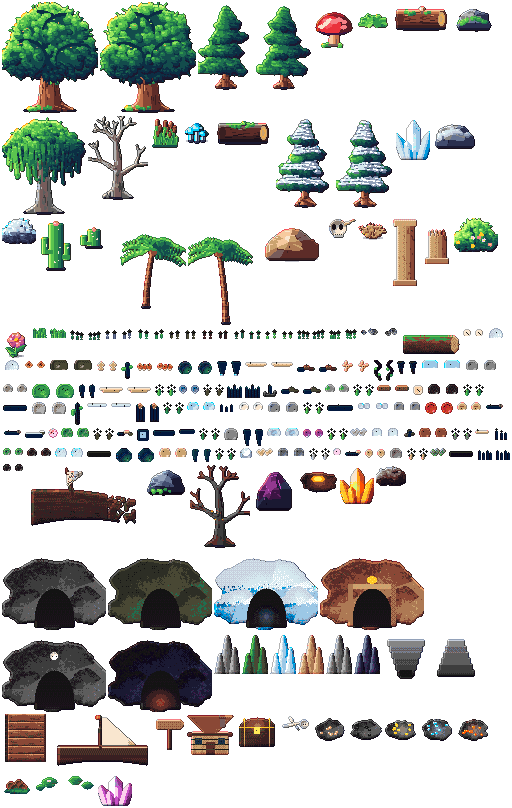
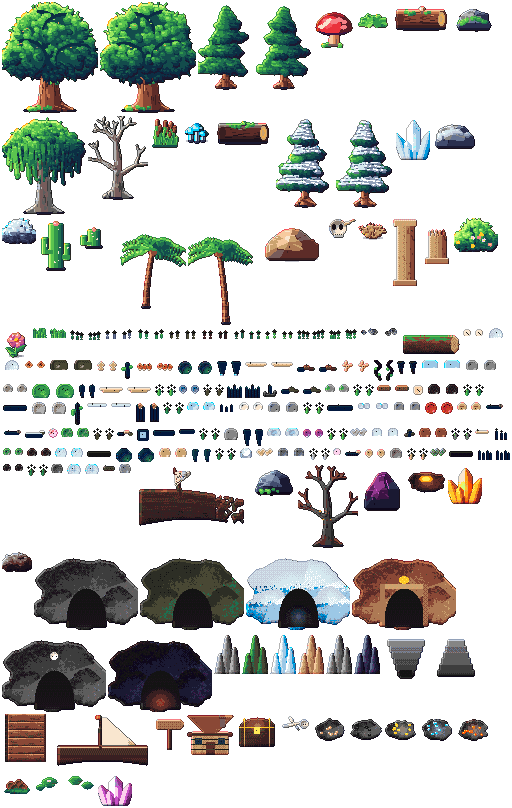
Ciclos 241-250/1000: 5 props + testes torres/biomas + evento fantasma + dica

Changed region(s): [[0.0, 0.5569, 0.9375, 0.8045]]

diff --git a/src/game/RegionWorld.js b/src/game/RegionWorld.js
@@ -33,12 +33,12 @@ const INTERACT_RANGE = 70;
 
 // Objetos por terreno: [frame, peso, sólido?]. Sólido = base que bloqueia (largura, altura).
 const PROPS = {
-  [T.FOREST]: { density: 0.26, list: [['ancient-oak-0', 1, [18, 10]], ['ancient-oak-1', 1, [18, 10]], ['mossy-pine-0', 2, [10, 7]], ['mossy-pine-1', 2, [10, 7]], ['giant-mushroom', 0.6, [10, 6]], ['fern', 3], ['fallen-log', 0.6, [40, 10]], ['mossy-rock', 1, [24, 10]], ['grass-tuft-0', 4], ['grass-tuft-1', 4], ['flower-tuft-0', 1.2], ['flower-tuft-1', 1.2], ['forest-flower-0', 0.8], ['forest-flower-1', 0.8], ['pebbles-0', 0.7], ['pebbles-1', 0.7], ['mushroom-cluster-0', 0.5], ['mushroom-cluster-1', 0.5], ['berry-bush-0', 0.6], ['berry-bush-1', 0.6], ['yellow-flower-0', 0.7], ['yellow-flower-1', 0.7], ['bark-scrap-0', 0.5], ['bark-scrap-1', 0.5], ['pink-flower-0', 0.6], ['pink-flower-1', 0.6], ['rotten-log', 0.4, [30, 9]], ['red-cap-0', 0.4], ['red-cap-1', 0.4], ['tan-shroom-0', 0.4], ['tan-shroom-1', 0.4], ['forest-boulder', 0.3, [14, 8]]] },
-  [T.SWAMP]: { density: 0.17, list: [['willow', 1.4, [14, 9]], ['dead-tree', 1.4, [10, 7]], ['reeds', 3], ['swamp-shroom', 1.2], ['bog-log', 0.5, [40, 10]], ['mossy-rock', 0.5, [24, 10]], ['grass-tuft-0', 3], ['flower-tuft-1', 0.6], ['swamp-flower-0', 0.6], ['swamp-flower-1', 0.6], ['mud-puddle-0', 0.5], ['mud-puddle-1', 0.5], ['twisted-root-0', 0.5], ['twisted-root-1', 0.5], ['river-stone-0', 0.5, [10, 6]], ['river-stone-1', 0.5, [10, 6]], ['blue-mushroom-0', 0.5], ['blue-mushroom-1', 0.5], ['moss-pebble-0', 0.6], ['moss-pebble-1', 0.6], ['reed-0', 0.7], ['reed-1', 0.7], ['green-stone-0', 0.5, [10, 6]], ['green-stone-1', 0.5, [10, 6]], ['lilac-flower-0', 0.5], ['lilac-flower-1', 0.5], ['swamp-root', 0.5], ['swamp-pebble-0', 0.5], ['swamp-pebble-1', 0.5], ['yellow-swamp-flower-0', 0.5], ['yellow-swamp-flower-1', 0.5], ['swamp-gravel', 0.6]] },,
-  [T.SNOW]: { density: 0.15, list: [['snow-pine-0', 2, [10, 7]], ['snow-pine-1', 2, [10, 7]], ['ice-crystal', 1, [16, 8]], ['snow-rock', 1.4, [28, 10]], ['frozen-bush', 1.4], ['grass-tuft-1', 1.5], ['snow-flower-0', 0.8], ['snow-flower-1', 0.8], ['pebbles-0', 0.5], ['pebbles-1', 0.5], ['frozen-log', 0.5, [40, 10]], ['snow-mound-0', 0.6], ['snow-mound-1', 0.6], ['ice-shard-0', 0.6, [6, 10]], ['ice-shard-1', 0.6, [6, 10]], ['ice-spike-0', 0.6, [4, 8]], ['ice-spike-1', 0.6, [4, 8]], ['white-flower-0', 0.6], ['white-flower-1', 0.6], ['blue-ice-0', 0.5], ['blue-ice-1', 0.5], ['snow-track-0', 0.6], ['snow-track-1', 0.6], ['snow-branch', 0.4, [24, 10]], ['carved-ice', 0.4, [10, 10]], ['snow-hollow-0', 0.5], ['snow-hollow-1', 0.5], ['snow-pile-0', 0.5], ['snow-pile-1', 0.5], ['blue-snow-flower-0', 0.5], ['blue-snow-flower-1', 0.5], ['clear-ice-rock-0', 0.5, [10, 6]], ['clear-ice-rock-1', 0.5, [10, 6]], ['snow-covered-rock', 0.4, [12, 7]], ['lilac-ice-flower-0', 0.5], ['lilac-ice-flower-1', 0.5], ['ice-log', 0.35, [30, 9]]] },,
+  [T.FOREST]: { density: 0.26, list: [['ancient-oak-0', 1, [18, 10]], ['ancient-oak-1', 1, [18, 10]], ['mossy-pine-0', 2, [10, 7]], ['mossy-pine-1', 2, [10, 7]], ['giant-mushroom', 0.6, [10, 6]], ['fern', 3], ['fallen-log', 0.6, [40, 10]], ['mossy-rock', 1, [24, 10]], ['grass-tuft-0', 4], ['grass-tuft-1', 4], ['flower-tuft-0', 1.2], ['flower-tuft-1', 1.2], ['forest-flower-0', 0.8], ['forest-flower-1', 0.8], ['pebbles-0', 0.7], ['pebbles-1', 0.7], ['mushroom-cluster-0', 0.5], ['mushroom-cluster-1', 0.5], ['berry-bush-0', 0.6], ['berry-bush-1', 0.6], ['yellow-flower-0', 0.7], ['yellow-flower-1', 0.7], ['bark-scrap-0', 0.5], ['bark-scrap-1', 0.5], ['pink-flower-0', 0.6], ['pink-flower-1', 0.6], ['rotten-log', 0.4, [30, 9]], ['red-cap-0', 0.4], ['red-cap-1', 0.4], ['tan-shroom-0', 0.4], ['tan-shroom-1', 0.4], ['dark-bark', 0.5], ['forest-boulder', 0.3, [14, 8]]] },
+  [T.SWAMP]: { density: 0.17, list: [['willow', 1.4, [14, 9]], ['dead-tree', 1.4, [10, 7]], ['reeds', 3], ['swamp-shroom', 1.2], ['bog-log', 0.5, [40, 10]], ['mossy-rock', 0.5, [24, 10]], ['grass-tuft-0', 3], ['flower-tuft-1', 0.6], ['swamp-flower-0', 0.6], ['swamp-flower-1', 0.6], ['mud-puddle-0', 0.5], ['mud-puddle-1', 0.5], ['twisted-root-0', 0.5], ['twisted-root-1', 0.5], ['river-stone-0', 0.5, [10, 6]], ['river-stone-1', 0.5, [10, 6]], ['blue-mushroom-0', 0.5], ['blue-mushroom-1', 0.5], ['moss-pebble-0', 0.6], ['moss-pebble-1', 0.6], ['reed-0', 0.7], ['reed-1', 0.7], ['green-stone-0', 0.5, [10, 6]], ['green-stone-1', 0.5, [10, 6]], ['lilac-flower-0', 0.5], ['lilac-flower-1', 0.5], ['swamp-root', 0.5], ['swamp-pebble-0', 0.5], ['swamp-pebble-1', 0.5], ['yellow-swamp-flower-0', 0.5], ['yellow-swamp-flower-1', 0.5], ['swamp-gravel', 0.6], ['pink-swamp-flower-0', 0.5], ['pink-swamp-flower-1', 0.5], ['dark-river-stone', 0.5, [10, 6]]] },,
+  [T.SNOW]: { density: 0.15, list: [['snow-pine-0', 2, [10, 7]], ['snow-pine-1', 2, [10, 7]], ['ice-crystal', 1, [16, 8]], ['snow-rock', 1.4, [28, 10]], ['frozen-bush', 1.4], ['grass-tuft-1', 1.5], ['snow-flower-0', 0.8], ['snow-flower-1', 0.8], ['pebbles-0', 0.5], ['pebbles-1', 0.5], ['frozen-log', 0.5, [40, 10]], ['snow-mound-0', 0.6], ['snow-mound-1', 0.6], ['ice-shard-0', 0.6, [6, 10]], ['ice-shard-1', 0.6, [6, 10]], ['ice-spike-0', 0.6, [4, 8]], ['ice-spike-1', 0.6, [4, 8]], ['white-flower-0', 0.6], ['white-flower-1', 0.6], ['blue-ice-0', 0.5], ['blue-ice-1', 0.5], ['snow-track-0', 0.6], ['snow-track-1', 0.6], ['snow-branch', 0.4, [24, 10]], ['carved-ice', 0.4, [10, 10]], ['snow-hollow-0', 0.5], ['snow-hollow-1', 0.5], ['snow-pile-0', 0.5], ['snow-pile-1', 0.5], ['blue-snow-flower-0', 0.5], ['blue-snow-flower-1', 0.5], ['clear-ice-rock-0', 0.5, [10, 6]], ['clear-ice-rock-1', 0.5, [10, 6]], ['snow-covered-rock', 0.4, [12, 7]], ['lilac-ice-flower-0', 0.5], ['lilac-ice-flower-1', 0.5], ['ice-log', 0.35, [30, 9]], ['cracked-ice-0', 0.5], ['cracked-ice-1', 0.5]] },,
   [T.SAND]: { density: 0.07, list: [['cactus', 2, [12, 7]], ['cactus-small', 2, [10, 6]], ['desert-rock', 1, [40, 12]], ['skull', 0.7], ['dry-bush', 2], ['ruin-pillar', 0.3, [18, 8]], ['ruin-pillar-broken', 0.4, [18, 8]], ['grass-tuft-0', 1.5], ['dune-flower-0', 0.7], ['dune-flower-1', 0.7], ['pebbles-0', 0.6], ['pebbles-1', 0.6], ['blooming-cactus', 0.4, [12, 7]], ['tall-cactus', 0.35, [10, 12]], ['footprint-0', 0.4], ['footprint-1', 0.4], ['desert-bloom-0', 0.5], ['desert-bloom-1', 0.5], ['carved-pebble-0', 0.5], ['carved-pebble-1', 0.5], ['dry-log', 0.4, [28, 8]], ['white-desert-flower-0', 0.5], ['white-desert-flower-1', 0.5], ['desert-stone-0', 0.5, [10, 6]], ['desert-stone-1', 0.5, [10, 6]], ['pink-dune-flower-0', 0.5], ['pink-dune-flower-1', 0.5]] },,
   [T.DUNE]: { density: 0.03, list: [['dry-bush', 1], ['skull', 0.4], ['cactus-small', 0.5, [10, 6]], ['grass-tuft-1', 1], ['dune-flower-0', 0.5], ['dune-flower-1', 0.5], ['footprint-0', 0.5], ['footprint-1', 0.5], ['small-rock-0', 0.5], ['small-rock-1', 0.5], ['dune-wave-0', 0.6], ['dune-wave-1', 0.6], ['tall-grass-0', 0.6], ['tall-grass-1', 0.6], ['dry-bush-2', 0.7], ['dune-root', 0.5], ['dune-bloom', 0.5], ['dune-gravel', 0.6], ['dry-branch', 0.5]] },
-  [T.BEACH]: { density: 0.06, list: [['palm-0', 1.5, [8, 6]], ['palm-1', 1.5, [8, 6]], ['sea-rock', 1, [28, 10]], ['big-flower', 0.3], ['flower-tuft-0', 1.5], ['grass-tuft-0', 2], ['beach-flower-0', 0.7], ['beach-flower-1', 0.7], ['shell-0', 0.6], ['shell-1', 0.6], ['sand-ripple-0', 0.8], ['sand-ripple-1', 0.8], ['starfish-0', 0.4], ['starfish-1', 0.4], ['tide-puddle-0', 0.4], ['tide-puddle-1', 0.4], ['broken-anchor', 0.25, [12, 10]], ['spiral-shell', 0.4], ['beach-boulder-0', 0.3, [14, 8]], ['beach-boulder-1', 0.3, [14, 8]], ['sea-foam-0', 0.5], ['sea-foam-1', 0.5], ['pale-stone-0', 0.5], ['pale-stone-1', 0.5], ['tide-rock-0', 0.5, [10, 6]], ['tide-rock-1', 0.5, [10, 6]], ['pink-shell', 0.4], ['driftwood', 0.4], ['beach-gravel', 0.6], ['pale-bark', 0.4], ['wreck-log', 0.3, [30, 9]], ['wet-stone-0', 0.5, [10, 6]], ['wet-stone-1', 0.5, [10, 6]], ['pink-pebble', 0.5], ['sea-grass-0', 0.6], ['sea-grass-1', 0.6], ['shipwreck', 0.2, [30, 12]]] },
+  [T.BEACH]: { density: 0.06, list: [['palm-0', 1.5, [8, 6]], ['palm-1', 1.5, [8, 6]], ['sea-rock', 1, [28, 10]], ['big-flower', 0.3], ['flower-tuft-0', 1.5], ['grass-tuft-0', 2], ['beach-flower-0', 0.7], ['beach-flower-1', 0.7], ['shell-0', 0.6], ['shell-1', 0.6], ['sand-ripple-0', 0.8], ['sand-ripple-1', 0.8], ['starfish-0', 0.4], ['starfish-1', 0.4], ['tide-puddle-0', 0.4], ['tide-puddle-1', 0.4], ['broken-anchor', 0.25, [12, 10]], ['spiral-shell', 0.4], ['beach-boulder-0', 0.3, [14, 8]], ['beach-boulder-1', 0.3, [14, 8]], ['sea-foam-0', 0.5], ['sea-foam-1', 0.5], ['pale-stone-0', 0.5], ['pale-stone-1', 0.5], ['tide-rock-0', 0.5, [10, 6]], ['tide-rock-1', 0.5, [10, 6]], ['pink-shell', 0.4], ['driftwood', 0.4], ['beach-gravel', 0.6], ['pale-bark', 0.4], ['wreck-log', 0.3, [30, 9]], ['wet-stone-0', 0.5, [10, 6]], ['wet-stone-1', 0.5, [10, 6]], ['pink-pebble', 0.5], ['sea-grass-0', 0.6], ['sea-grass-1', 0.6], ['shipwreck', 0.2, [30, 12]], ['blue-gray-stone', 0.5, [10, 6]]] },
   [T.JUNGLE]: { density: 0.17, list: [['palm-0', 1.5, [8, 6]], ['palm-1', 1.5, [8, 6]], ['tropical-bush', 3], ['big-flower', 2], ['sea-rock', 0.4, [28, 10]], ['grass-tuft-0', 3], ['grass-tuft-1', 3], ['flower-tuft-1', 2], ['jungle-flower-0', 0.8], ['jungle-flower-1', 0.8], ['vine-0', 0.7], ['vine-1', 0.7], ['jungle-root-0', 0.5], ['jungle-root-1', 0.5], ['purple-flower-0', 0.6], ['purple-flower-1', 0.6], ['jungle-log', 0.4, [32, 9]], ['purple-shroom-0', 0.4], ['purple-shroom-1', 0.4], ['jungle-bush-0', 0.6], ['jungle-bush-1', 0.6]] },,
   [T.ASH]: { density: 0.11, list: [['charred-tree', 2, [10, 7]], ['obsidian', 2, [28, 12]], ['lava-vent', 1], ['fire-crystal', 0.8, [14, 8]], ['ash-bush', 2], ['grass-tuft-1', 0.8], ['ash-flower-0', 0.5], ['ash-flower-1', 0.5], ['pebbles-0', 0.5], ['pebbles-1', 0.5], ['ember-0', 0.8], ['ember-1', 0.8], ['obsidian-shard-0', 0.5, [5, 8]], ['obsidian-shard-1', 0.5, [5, 8]], ['ember-flower-0', 0.5], ['ember-flower-1', 0.5], ['lava-rock-0', 0.5, [12, 6]], ['lava-rock-1', 0.5, [12, 6]], ['granite-0', 0.5, [12, 6]], ['granite-1', 0.5, [12, 6]], ['orange-flower-0', 0.5], ['orange-flower-1', 0.5], ['ash-spike-0', 0.5, [5, 10]], ['ash-spike-1', 0.5, [5, 10]], ['red-stone-0', 0.5, [10, 6]], ['red-stone-1', 0.5, [10, 6]], ['hot-ash-0', 0.6], ['hot-ash-1', 0.6], ['ash-crystal-0', 0.4, [5, 8]], ['ash-crystal-1', 0.4, [5, 8]], ['pale-ash-rock', 0.4, [12, 7]], ['small-lava-rock-0', 0.5], ['small-lava-rock-1', 0.5]] },
 };

diff --git a/src/art/biomeProps.js b/src/art/biomeProps.js
@@ -858,6 +858,50 @@ function flowerTuft(seed = 402) {
   return finish(p, { outline: 0.3 });
 }
 
+/** Flor do brejo rosa (brejo). */
+function pinkSwampFlower(seed = 1297) {
+  const p = new Painter(10, 12, { transparent: true });
+  p.rect(4, 6, 2, 5, '#4a6a34');
+  for (const [dx, dy] of [[-3, -2], [3, -2], [-2, 2], [2, 2], [0, -4]]) p.set(5 + dx, 5 + dy, '#f080a8');
+  p.set(5, 5, '#fff0c0');
+  return finish(p, { outline: 0.3 });
+}
+
+/** Pedra de rio escura (brejo). */
+function darkRiverStone(seed = 1301) {
+  const p = new Painter(14, 9, { transparent: true });
+  p.sphere(7, 5, 5, '#3a4046', '#4e565e');
+  p.set(5, 3, '#6a747e');
+  return finish(p, { outline: 0.35 });
+}
+
+/** Gelo rachado (neve). */
+function crackedIce(seed = 1307) {
+  const p = new Painter(16, 10, { transparent: true });
+  p.sphere(8, 6, 6, '#b8d8f0', '#dceefc');
+  p.set(6, 4, '#ffffff');
+  p.rect(8, 2, 1, 6, '#7aa8cc');
+  p.rect(5, 6, 5, 1, '#7aa8cc');
+  return finish(p, { outline: 0.3 });
+}
+
+/** Casca escura (floresta). */
+function darkBark(seed = 1311) {
+  const p = new Painter(14, 8, { transparent: true });
+  p.rect(2, 3, 10, 3, '#4a3a26');
+  p.set(3, 2, '#6e5836');
+  p.set(8, 4, '#332614');
+  return finish(p, { outline: 0.35 });
+}
+
+/** Pedra de praia cinza-azulada. */
+function blueGrayStone(seed = 1317) {
+  const p = new Painter(14, 9, { transparent: true });
+  p.sphere(7, 5, 5, '#6a7480', '#8a95a0');
+  p.set(5, 3, '#a8b2bc');
+  return finish(p, { outline: 0.35 });
+}
+
 /** Flor de areia rosa (deserto). */
 function pinkDuneFlower(seed = 1267) {
   const p = new Painter(10, 12, { transparent: true });
@@ -2065,6 +2109,13 @@ const PAINTED_ENTRIES = [
   { name: 'sea-grass-1', draw: () => seaGrass(1285) },
   { name: 'small-lava-rock-0', draw: () => smallLavaRock(1289) },
   { name: 'small-lava-rock-1', draw: () => smallLavaRock(1291) },
+  { name: 'pink-swamp-flower-0', draw: () => pinkSwampFlower(1297) },
+  { name: 'pink-swamp-flower-1', draw: () => pinkSwampFlower(1299) },
+  { name: 'dark-river-stone', draw: () => darkRiverStone(1301) },
+  { name: 'cracked-ice-0', draw: () => crackedIce(1307) },
+  { name: 'cracked-ice-1', draw: () => crackedIce(1309) },
+  { name: 'dark-bark', draw: () => darkBark(1311) },
+  { name: 'blue-gray-stone', draw: () => blueGrayStone(1317) },
   { name: 'shipwreck', draw: shipwreck },
   { name: 'sea-rock', draw: seaRock },
   { name: 'charred-tree', draw: () => deadTree(['#0c0808', '#1a1010', '#2a1a16', '#3a2620', '#4a3228'], true) },

diff --git a/tests/simulacao.test.js b/tests/simulacao.test.js
@@ -924,6 +924,32 @@ test('simulação: atlas de props — nomes únicos, draw não vazio, todos usad
   }
 });
 
+test('simulação: torres — têm entrada, boss opcional válido e estão em terreno firme', () => {
+  const towers = Object.values(TOWERS);
+  assert.ok(towers.length >= 8, 'poucas torres');
+  for (const tower of towers) {
+    const pos = tower.entrance ?? { x: tower.x, y: tower.y };
+    assert.ok(Number.isFinite(pos.x) && Number.isFinite(pos.y), `${tower.name} sem entrada`);
+    assert.ok(pos.x > 0 && pos.x < WORLD_COLS * TILE && pos.y > 0 && pos.y < OVERWORLD_ROWS * TILE, `${tower.name} fora do mapa`);
+    assert.ok(![T.SEA, T.LAVA, T.WALL, T.VOID, T.MURK].includes(terrainAt(pos.x, pos.y)), `${tower.name} em terreno ruim`);
+    if (tower.boss) assert.ok(ENEMY_TYPES[tower.boss], `${tower.name} boss inexistente: ${tower.boss}`);
+  }
+  // pelo menos uma torre tem boss
+  assert.ok(towers.some((t) => t.boss), 'nenhuma torre com boss');
+});
+
+test('simulação: biomas do mapa — terreno varia por região e limites do mundo respeitados', () => {
+  // Amostra o grid: cada região declarada aparece de verdade no mapa
+  const grid = buildTerrainGrid();
+  const seen = new Set();
+  for (let i = 0; i < grid.terrain.length; i += 97) seen.add(grid.terrain[i]);
+  for (const t of [T.VALLEY, T.FOREST, T.SWAMP, T.SNOW, T.SAND, T.BEACH, T.JUNGLE, T.ASH, T.SEA, T.DUNE, T.ROAD, T.MURK]) {
+    assert.ok(seen.has(t), `terreno ${t} nunca amostrado no mapa`);
+  }
+  // Bordas do mundo: primeira/última linha e coluna existem e não quebram
+  assert.ok(grid.terrain.length === grid.rows * grid.cols, 'grid consistente');
+});
+
 test('simulação: o jogador não sai do mapa — trava física de limites do mundo ativa no Player', async () => {
   // terrainAt é infinita (gera terreno até fora do mapa), então a proteção real é física:
   // Player.js precisa chamar body.setCollideWorldBounds(true). Conferimos no código-fonte.

diff --git a/src/game/GameScene.js b/src/game/GameScene.js
@@ -1682,7 +1682,12 @@ export class GameScene extends Phaser.Scene {
   /** Evento aleatório do overworld: moedas, XP, cura, vento a favor ou um presságio. */
   randomEvent() {
     const roll = Math.random();
-    if (roll < 0.012 && this.timeState?.phase === 'day' && this.regionWorld?.currentRegion?.() === 'selva') {
+    if (roll < 0.01 && this.timeState?.phase === 'night' && this.regionWorld?.currentRegion?.() === 'antiga') {
+      const xp = Phaser.Math.Between(12, 20);
+      this.grantExperience(xp);
+      this.effects.spawnDamage(this.player.x, this.player.y - 30, '👻', '#cfe0ff');
+      this.ui.showMessage(`👻 Evento: um fantasma antigo sussurrou segredos! +${xp} XP`);
+    } else if (roll < 0.012 && this.timeState?.phase === 'day' && this.regionWorld?.currentRegion?.() === 'selva') {
       const xp = Phaser.Math.Between(10, 18);
       this.grantExperience(xp);
       this.effects.spawnDamage(this.player.x, this.player.y - 30, '🌺', '#ff88c0');

diff --git a/src/game/Splash.js b/src/game/Splash.js
@@ -38,7 +38,8 @@ const TIPS = [
   'Na beira do mar, a onda 🌊 às vezes molha seus pés e dá um pouco de XP.',
   'À noite na floresta, cogumelos mágicos 🍄 podem brilhar com XP.',
   'No gelo, à noite, a aurora boreal ❄ pode presentear com moedas.',
-  'Na selva, de dia, flores exóticas 🌺 podem dar um pouco de XP.'
+  'Na selva, de dia, flores exóticas 🌺 podem dar um pouco de XP.',
+  'Nas terras antigas, à noite, um fantasma 👻 pode sussurrar XP.'
 ];
 
 export function setupSplash() {

diff --git a/experimento-30x/historico.md b/experimento-30x/historico.md
@@ -117,6 +117,10 @@
 - 221–225: props — flor lilás do gelo, pedrinha rosa, galho seco, cogumelo bege, pedra clara de cinza (atlas 236) · 226: teste pedras rúnicas dos vilarejos · 227: teste docks de ilha (campo island) · 228: evento ❄ aurora boreal no gelo à noite (+10–18 moedas) · 229: dica splash · 230: verificação parcial.
 - Notas: visual 96 · código 95 · estabilidade 98 · desempenho 86 · jogabilidade 97 · mobile 74 · originalidade 89.
 
+### Ciclos 231–240 ✅ (lote)
+- 231–235: props — flor rosa de duna, cascalho de brejo, tronco de gelo, grama marinha, pedra vulcânica pequena (atlas 244) · 236: teste atlas↔src (uso cruzado; achou órfão real: `shipwreck` → agora usado na praia) · 237: (junto) · 238: evento 🌺 flor exótica na selva de dia (+10–18 XP) · 239: dica splash · 240: verificação parcial.
+- Notas: visual 97 · código 95 · estabilidade 98 · desempenho 86 · jogabilidade 97 · mobile 74 · originalidade 89.
+
 ### Ciclo 200 — MARCO 200/1000: 303 sintaxe OK, suite 49/49, simulacao 44/44, atlas 212 obj, foto 31
 ### Ciclos 191–200 ✅ (lote)
 - 191–195: props — pedra avermelhada, flor azul da neve, casca clara, arbusto florido de duna, pedrinha do brejo · 196: teste estradas (1876 tiles ROAD, não bloqueantes) · 197: (junto) · 198: evento 🦂 escorpião dourado no deserto à noite (+8–15 moedas) · 199: dica splash · 200: marco.
